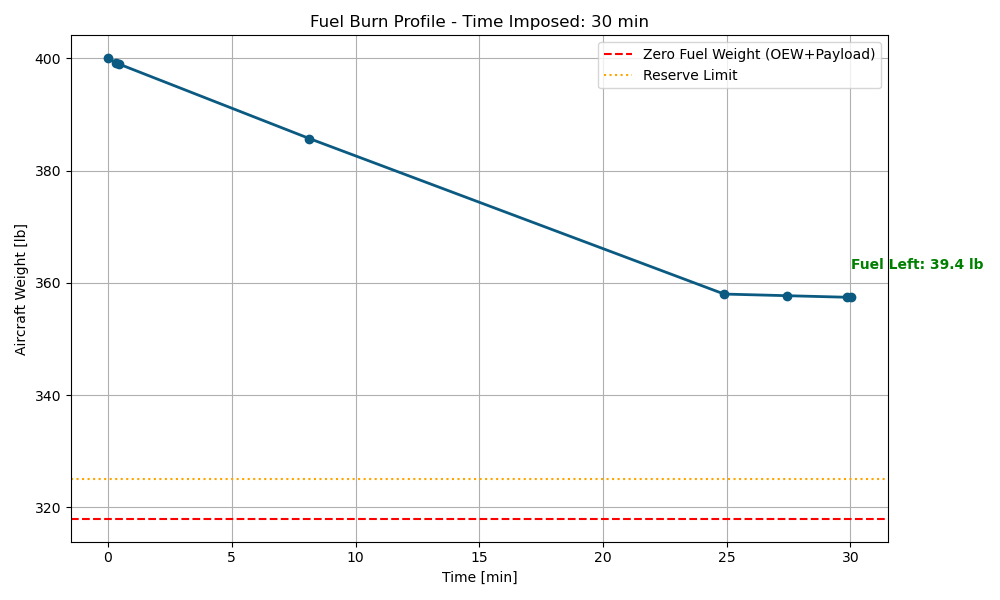
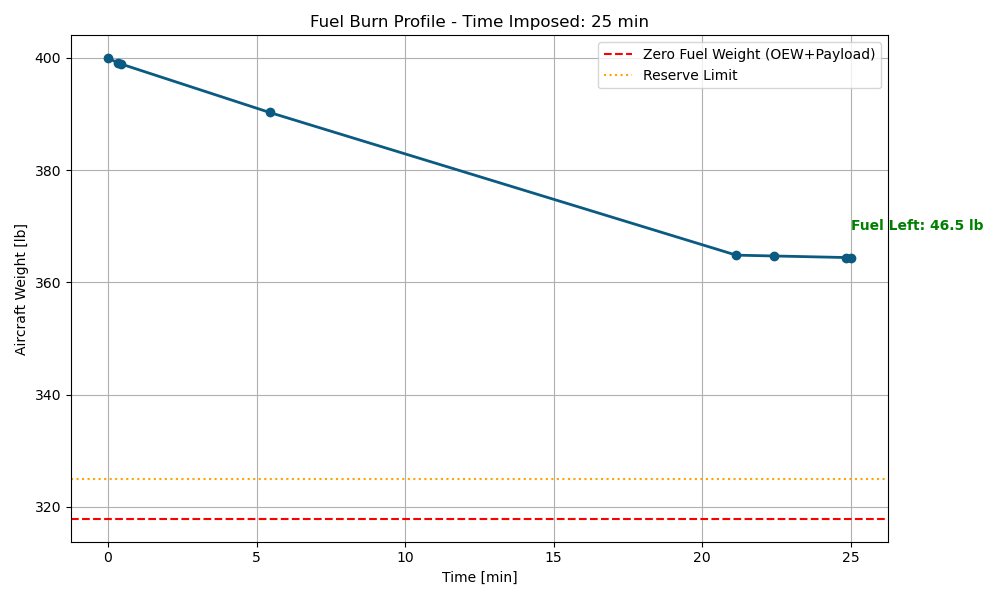
modif pour affichages de vitesses

diff --git a/landing_phases.py b/landing_phases.py
@@ -42,6 +42,9 @@ def approach_and_flare(hpi, hpf, h_flare, dT_isa, V_app_kts, weight_initial, sre
     Returns:
         temps_total [min], distance_total [NM], Fuel_tot [lb], weight_final [lbf], V_td_kts [kts]
     """
+    print(f"\n========== APPROCHE ET ARRONDI ==========")
+    print(f"Vitesse au début d'approche: {V_app_kts:.2f} kts")
+    
     dh = 5.0          # Pas de pression [ft]
     hp1 = hpi         
     weight = weight_initial
@@ -53,7 +56,7 @@ def approach_and_flare(hpi, hpf, h_flare, dT_isa, V_app_kts, weight_initial, sre
     
     # 1. Calcul de V_TD pour la fin du segment (via Vs)
     Vs_ft_s, _ = v_touchdown(hpi, dT_isa, weight_initial, CL_MAX_LANDING, sref)
-    V_td_kts = Vs_ft_s / 1.6878 * 1.15 
+    V_td_kts = Vs_ft_s / 1.6878 * 1.15
     
 
     # ==========================================================
@@ -107,6 +110,9 @@ def approach_and_flare(hpi, hpf, h_flare, dT_isa, V_app_kts, weight_initial, sre
     # PHASE 2 : FLARE (Arrondi) (h_flare -> hpf=0 ft)
     # L'avion décélère verticalement et horizontalement.
     # ==========================================================
+    print(f"Vitesse au début du flare: {V_app_kts:.2f} kts")
+    print("=========================================\n")
+    
     h_start_flare = h_flare
     
     # Estimation de la distance de flare (Formule simplifiée Gudmundsson)

diff --git a/take_off_run.py b/take_off_run.py
@@ -29,10 +29,8 @@ def v_lof_v_r(h_ft,dT_isa,weight,CL_max,sref):
     
     v_r = 1.35*Vs_ft_s
     v_lof = 1.45*Vs_ft_s
-    
+
     return v_r, v_lof
-    
-    
     
     
 def sumforce(mu, h_ft, dT_isa, V, weight, alpha, thrust_lbf, cg_mac_current):
@@ -152,6 +150,11 @@ dist_totale, t_total, h = groundrun(v_trans, weight, alpha_trans, alpha_ini, h_f
 
 print(f"Distance totale: {dist_totale:.2f} ft")
 print(f"Temps total: {t_total:.2f} s")
+
+# Afficher la vitesse de takeoff
+v_takeoff_ft_s = h['v'][-1]
+v_takeoff_kts = v_takeoff_ft_s / 1.6878
+print(f"Vitesse de takeoff: {v_takeoff_kts:.2f} kts ({v_takeoff_ft_s:.2f} ft/s)")
 
 # --- PLOTTING (Mise à jour pour 4 graphiques) ---
 # On passe à 4 lignes (nrows=4) et on augmente la hauteur (figsize)

diff --git a/Flight_phases_imposed_time.py b/Flight_phases_imposed_time.py
@@ -287,7 +287,7 @@ if __name__ == "__main__":
     
     # Inputs utilisateur (Simulés ici)
     # Exemple: On impose 3 heures de vol (180 min)
-    TIME_IMPOSED_MIN = 30 # <--- MODIFIER ICI
+    TIME_IMPOSED_MIN = 25 # <--- MODIFIER ICI
     
     # Paramètres de base (idem Flight_phases.py)
     fc_default, geom, aero = get_default_inputs()

diff --git a/Mission_parameters.py b/Mission_parameters.py
@@ -4,4 +4,4 @@ Centralized Mission Parameters
 """
 
 # Mission Height in feet
-MISSION_HEIGHT_FT = 3000
+MISSION_HEIGHT_FT = 2000
